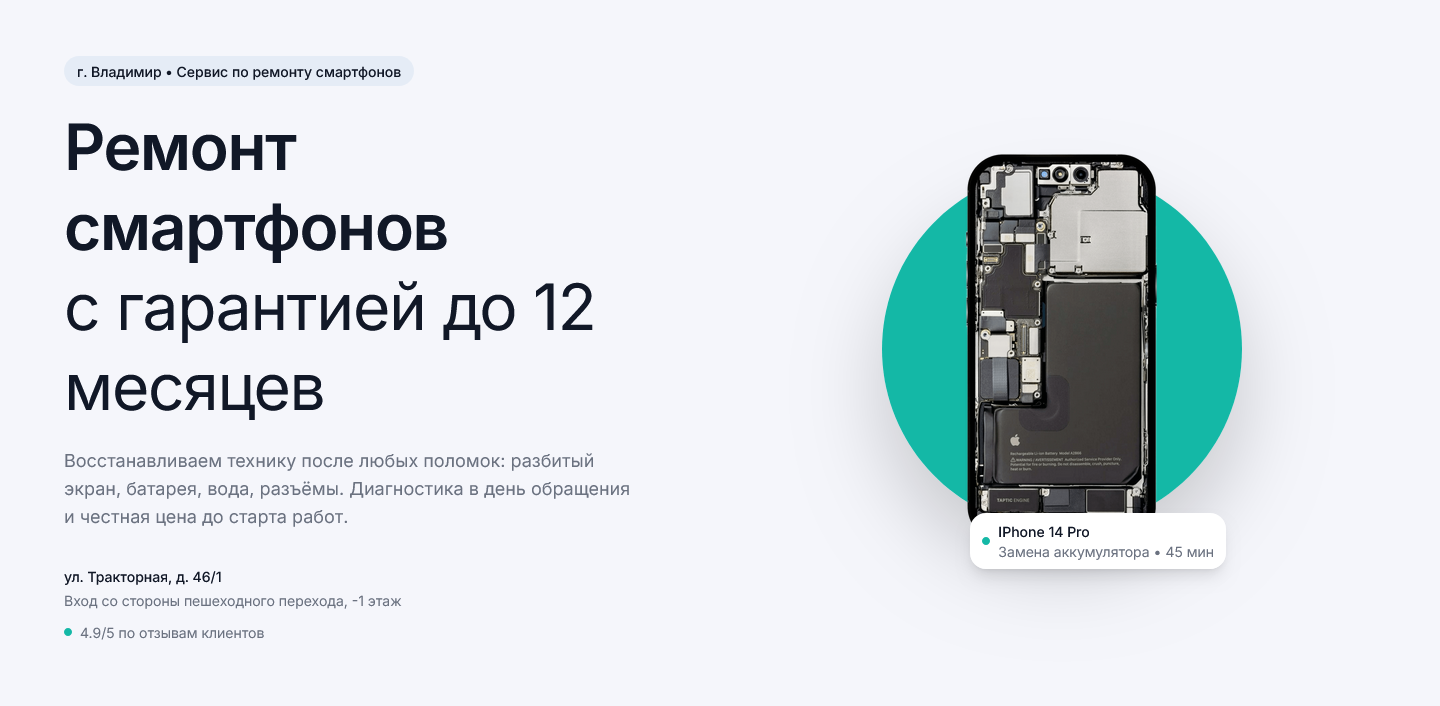
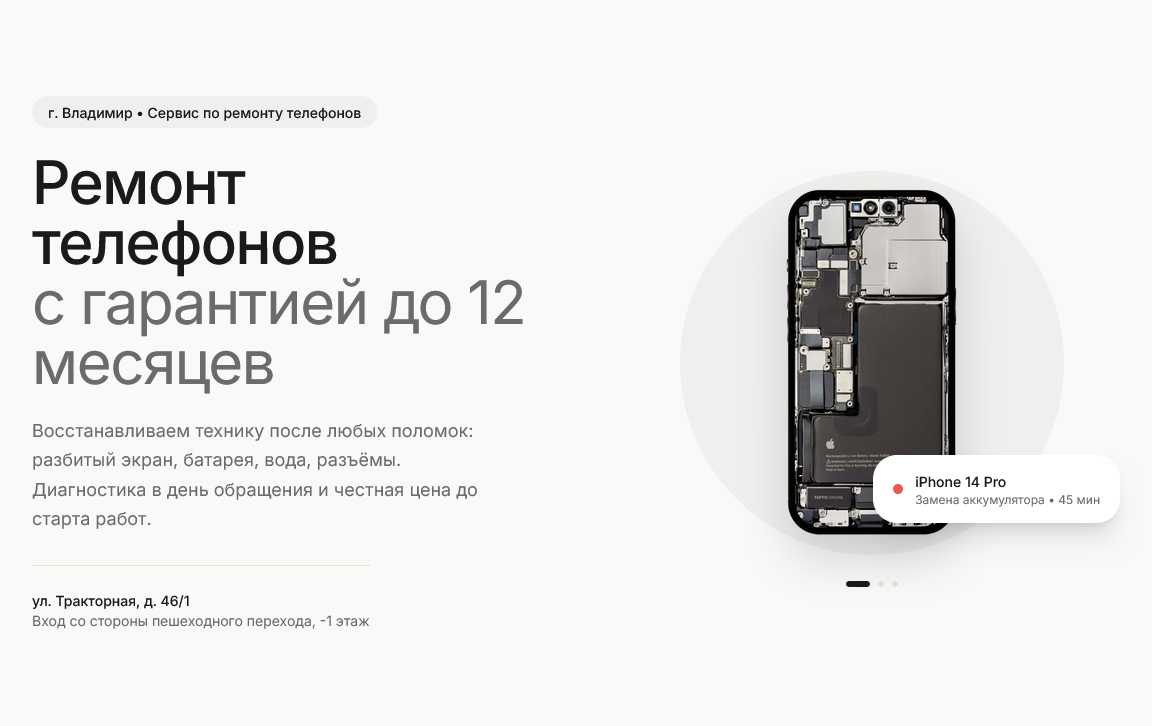
first commit

Changed region(s): [[0.0312, 0.0935, 0.4688, 0.7479], [0.5938, 0.2181, 0.9688, 0.8414], [0.0312, 0.8102, 0.3125, 0.9037]]

diff --git a/src/components/landing/map-section.tsx b/src/components/landing/map-section.tsx
@@ -1,0 +1,62 @@
+'use client'
+
+import { Navigation } from 'lucide-react'
+import { motion } from 'motion/react'
+
+import { Button } from '@/components/ui/button'
+import { YandexMapOrganization } from '@/components/yandex-map'
+
+export function MapSection() {
+	const organizationId = '124779220273'
+
+	return (
+		<section className='bg-secondary/30 w-full'>
+			<div className='container mx-auto max-w-6xl px-5 py-16 md:px-8 md:py-24'>
+				<motion.div
+					initial={{ opacity: 0, y: 20 }}
+					whileInView={{ opacity: 1, y: 0 }}
+					viewport={{ once: true }}
+					transition={{ duration: 0.5 }}
+					className='mb-8 flex flex-col items-start justify-between gap-4 md:flex-row md:items-end'
+				>
+					<div>
+						<h2 className='text-foreground text-2xl font-medium tracking-tight md:text-3xl'>
+							Как нас найти
+						</h2>
+						<p className='text-muted-foreground mt-2 text-base'>
+							ул. Тракторная, д. 46/1 — рядом с остановкой
+						</p>
+					</div>
+					<a
+						href='https://yandex.ru/maps/-/CHEtqCo6'
+						target='_blank'
+						rel='noopener noreferrer'
+					>
+						<Button
+							variant='outline'
+							className='gap-2 rounded-full'
+						>
+							<Navigation className='h-4 w-4' />
+							Построить маршрут
+						</Button>
+					</a>
+				</motion.div>
+
+				<motion.div
+					initial={{ opacity: 0, y: 20 }}
+					whileInView={{ opacity: 1, y: 0 }}
+					viewport={{ once: true }}
+					transition={{ duration: 0.5, delay: 0.1 }}
+					className='overflow-hidden rounded-2xl'
+				>
+					<div className='h-[350px] md:h-[450px]'>
+						<YandexMapOrganization
+							zoom={17}
+							organizationId={organizationId}
+						/>
+					</div>
+				</motion.div>
+			</div>
+		</section>
+	)
+}
